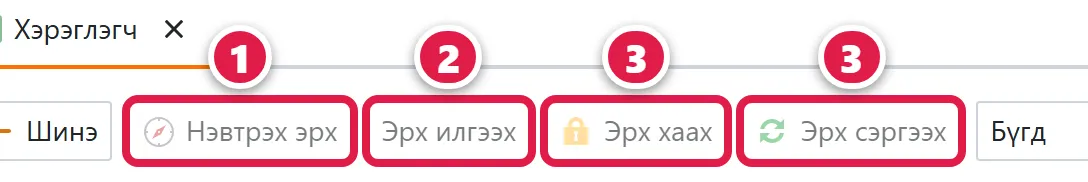
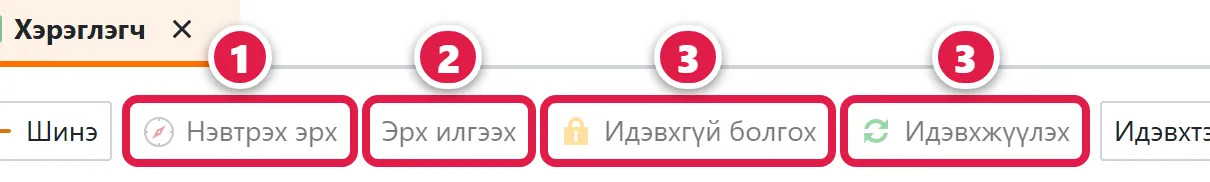
help: хэрэглэгч идэвхгүй болгох (#1219/#1220/#1226, 14829ae) — нийтлэв, list/user шинэ нэрс, зураг 2
Claude-Session: https://claude.ai/code/session_01HhipU9G1kwDtLBKWYTpQfA

diff --git a/docs/owner/list/user.md b/docs/owner/list/user.md
@@ -3,12 +3,13 @@ slug: /owner/list/User_ListView
 sidebar_label: Хэрэглэгч
 type: lavlah
 roles: [owner, menejer]
-updated: 2026-10-26
-verified_commit: c68c602
+updated: 2026-10-29
+verified_commit: 14829ae
 keywords:
   - "Хэрэглэгч"
   - "нэвтрэх эрх үүсгэх"
   - "нууц үг илгээх"
+  - "идэвхгүй болгох"
   - "эрх хаах"
   - "тамга гарын үсэг"
 ---
@@ -18,13 +19,13 @@ keywords:
 Хяналт: research/help_review_user.md (❌ 3) → засав.
 Нотолгоо (Spacehub23 origin/master c68c602):
 - User.cs:18 «Хэрэглэгч», :20 NavigationItem Spacehub (Менежмент → Харилцагч-ийн дэд)
-- Жагсаалт: xafml User_ListView AllowDelete=False; багана CustomerId, LastName, Name, PositionName, Email, Phone, CreatedBy; шүүлт Бүгд / Эрх идэвхгүй / Эрх идэвхтэй
+- Жагсаалт: xafml User_ListView AllowDelete=False; багана CustomerId, LastName, Name, PositionName, Email, Phone, CreatedBy; шүүлт (#1226, 14829ae; xafml:7488-7491) «Идэвхтэй» (анхдагч, Id Хаагдаагүй) / «Идэвхгүй» / «Бүгд» / «Нэвтрэх эрхтэй»; багана «Нэвтрэх эрх» User.cs:167-174 (Дансгүй / Идэвхтэй / Хаагдсан)
 - Өнгө: :21 эрх идэвхгүй бол саарал дэвсгэр (#EBEDEF)
 - Талбар: :49 Харилцагч, :60 Утас, :71 Имэйл, :83 Овог, :92 Нэр, :108 Хэрэглэгч эрх, :117 Албан тушаал, :137 Утас шалгасан, :147 Имэйл шалгасан, :167 Нэвтрэх эрх, :202-230 Тамга, Гарын үсэг (нэхэмжлэхэд; зөвхөн owner талын хэрэглэгчид харагдана), :284 Хандах төхөрөөмж
 - «Нэвтрэх эрх»: MainController.cs:242-243, 2102- (нэвтрэх нэр = Утас; owner бол Owner, үгүй бол Customer эрх; хадгалаагүй шинэ хэрэглэгч бол «Эрх үүсгэхээс өмнө шинэ хэрэглэгчийн мэдээллийг хадгална уу!»)
 - «Эрх илгээх»: User.cs:297-308 (1 мөр; эрхтэй + утас шалгасан үед; «Системд нэвтрэх эрх илгээх үү?»; оруулсан нууц үгийг тохируулж SMS-ээр аппын холбоос, нэвтрэх нэр, нууц үг илгээнэ)
-- «Эрх хаах»: :310-318 (идэвхтэй эрхтэй үед; «Энэ үйлдэлийг хийсний дараа хэрэглэгч системд нэвтрэх боломжгүй болно. Үргэлжлүүлэх үү?»)
-- «Эрх сэргээх»: :320-328 (идэвхгүй эрхтэй үед; «Хэрэглэгчийн нэвтрэх эрхийг буцааж сэргээх үү?»)
+- «Идэвхгүй болгох» (#1219/#1220, 14829ae): User.cs:341-345 (идэвхтэй эрхтэй үед; «Идэвхгүй болсон хэрэглэгч апп, вэбээр нэвтрэх боломжгүй болно. Үргэлжлүүлэх үү?»); хуучин «Эрх хаах»
+- «Идэвхжүүлэх»: User.cs:347-351 (идэвхгүй эрхтэй үед; «Хэрэглэгчийг дахин идэвхжүүлэх үү?»); хуучин «Эрх сэргээх». LoginGate.cs:31-32 өөр байгууллагын / өөрийгөө хориг
 -->
 
 > 🏢 Эзэмшигч, менежер · Вэб (app.spacehub.mn) · Цэс: **Менежмент → Харилцагч → Хэрэглэгч**
@@ -35,12 +36,12 @@ keywords:
 ## Хэзээ хэрэглэх
 - Шинэ ажилтан, айлд **нэвтрэх эрх** өгөх → **1** «Нэвтрэх эрх».
 - Нууц үгээ **мартсан** → **2** «Эрх илгээх».
-- Ажилтан ажлаас **гарсан** → **3** «Эрх хаах».
+- Ажилтан ажлаас **гарсан** → **3** «Идэвхгүй болгох».
 
 ## Багана, өнгө
 - **Харилцагч** · **Овог** · **Нэр** · **Албан тушаал** · **Имэйл** · **Утас** · **Бүртгэсэн**.
-- Мөр **саарал** дэвсгэртэй бол нэвтрэх эрх нь **хаагдсан**.
-- Шүүлт: **Бүгд** · **Эрх идэвхгүй** · **Эрх идэвхтэй**.
+- **Нэвтрэх эрх** багана: **Дансгүй** (эрх үүсгээгүй) · **Идэвхтэй** · **Хаагдсан**.
+- Шүүлт: **Идэвхтэй** (анхдагч) · **Идэвхгүй** · **Бүгд** · **Нэвтрэх эрхтэй**. Хаагдсан хэрэглэгч анхдагчаар харагдахгүй, **Идэвхгүй**-г сонгоно.
 - Карт дээр мөн:
   - **Утас шалгасан**, **Имэйл шалгасан**;
   - **Хэрэглэгч эрх**;
@@ -76,9 +77,10 @@ keywords:
 - ⚠ SMS нь цонхонд бичсэн **дугаар** руу явна. Дарахаасаа өмнө дугаарыг шалга.
 - **Буцаах:** ❌ илгээсэн SMS буцахгүй.
 
-### «Эрх хаах» · «Эрх сэргээх»
-- **«Эрх хаах»** — хэрэглэгч системд **нэвтрэх боломжгүй** болно. Ажлаас гарсан ажилтан, гэрээ дууссан харилцагчид хэрэглэ. Асуулт: «Энэ үйлдэлийг хийсний дараа хэрэглэгч системд нэвтрэх боломжгүй болно. Үргэлжлүүлэх үү?»
-- **«Эрх сэргээх»** — хаасан эрхийг буцааж нээнэ. Асуулт: «Хэрэглэгчийн нэвтрэх эрхийг буцааж сэргээх үү?»
+### «Идэвхгүй болгох» · «Идэвхжүүлэх»
+- **«Идэвхгүй болгох»** — хэрэглэгч апп, вэбээр **нэвтрэх боломжгүй** болно. Хэрэглэгч устахгүй, түүх хэвээр. Асуулт: «Идэвхгүй болсон хэрэглэгч апп, вэбээр нэвтрэх боломжгүй болно. Үргэлжлүүлэх үү?»
+- **«Идэвхжүүлэх»** — хаасан эрхийг буцааж нээнэ. Асуулт: «Хэрэглэгчийг дахин идэвхжүүлэх үү?»
+- Байгууллага зөвхөн өөрийн хэрэглэгчийг идэвхгүй болгоно. Өөрийгөө идэвхгүй болгох боломжгүй. → [Хэрэглэгчийг идэвхгүй болгох](/owner/hereglegch-idevhgui)
 
 ### Бусад товч
 - **Шинэ**, **Сэргээх**, **Export** (Excel рүү гаргах), багана тохируулах. **«Устгах»** байхгүй. Хэрэглэгчийг устгадаггүй, эрхийг нь **хаадаг**.
@@ -86,7 +88,7 @@ keywords:
 ## Түгээмэл асуулт
 - **Айл нууц үгээ мартсан.** Хэрэглэгчийг сонгоод «Эрх илгээх» дарж шинэ нууц үг илгээ.
 - **«Эрх илгээх» товч харагдахгүй.** Нэвтрэх эрх үүсгээгүй («Нэвтрэх эрх» дар) эсвэл утас шалгаагүй байна.
-- **Ажилтан ажлаас гарсан.** «Эрх хаах».
+- **Ажилтан ажлаас гарсан.** «Идэвхгүй болгох». → [Хэрэглэгчийг идэвхгүй болгох](/owner/hereglegch-idevhgui)
 - **Нэвтэрч чадахгүй байна.** → [Эрхгүй, нэвтэрч чадахгүй](/owner/erhgui-nevtreh)
 - **Нэхэмжлэх дээр тамга гарахгүй.** Байгууллагын **Захирал**, **Нягтлан**-аар сонгогдсон хэрэглэгчийн карт дээр **Тамга**, **Гарын үсэг** зургийг оруул.
 

diff --git a/docs/owner/hereglegch-idevhgui.md b/docs/owner/hereglegch-idevhgui.md
@@ -4,8 +4,7 @@ sidebar_label: Хэрэглэгчийг идэвхгүй болгох
 type: zaavar
 roles: [owner, menejer]
 updated: 2026-10-29
-verified_commit: d7bad52
-draft: true
+verified_commit: 14829ae
 keywords:
   - "идэвхгүй болгох"
   - "идэвхжүүлэх"
@@ -16,8 +15,8 @@ keywords:
 # Хэрэглэгчийг идэвхгүй болгох
 
 <!--
-НООРОГ (Help_Spacehub 10-29, CEO даалгавар). draft: true. Deploy-ийн дараа зураг нэмж, list/user.md-ийн «Эрх хаах / Эрх сэргээх»-ийг энэ нэрээр солино.
-Нотолгоо: Spacehub23 PR #1219 (8f8bea3), #1220 (adb167d) MERGED; origin/master d7bad52. Прод 41eca29-д ОРООГҮЙ (merge-base шалгав) — одоо прод дээр хуучин «Эрх хаах», «Эрх сэргээх».
+Help_Spacehub 10-29 (CEO даалгавар). #1219/#1220/#1226 прод 14829ae-д орсон (deploy-log.md:18-20) → зурагтай нийтлэв; list/user.md ч шинэ нэрээр.
+Нотолгоо: Spacehub23 PR #1219 (8f8bea3), #1220 (adb167d) MERGED; origin/master d7bad52. 14829ae-д User.cs:341-351, xafml:7488-7491 шалгав.
 - User.cs:341-345 «Идэвхгүй болгох»: ToolTip «Хэрэглэгч апп, вэбээр нэвтрэхгүй болно (устгахгүй, түүх хэвээр)», Confirmation «Идэвхгүй болсон хэрэглэгч апп, вэбээр нэвтрэх боломжгүй болно. Үргэлжлүүлэх үү?»; 1 мөр; эрх идэвхтэй үед л.
 - User.cs:347-351 «Идэвхжүүлэх»: ToolTip «Хэрэглэгч дахин апп, вэбээр нэвтэрч болно», Confirmation «Хэрэглэгчийг дахин идэвхжүүлэх үү?»; эрх идэвхгүй үед л.
 - User.cs:167,174 багана «Нэвтрэх эрх»: UserLoginState «Дансгүй» / «Идэвхтэй» / «Хаагдсан».
@@ -29,10 +28,6 @@ keywords:
 
 > 🏢 Байгууллага, менежер · Вэб (app.spacehub.mn) · Цэс: **Менежмент → Харилцагч → Хэрэглэгч**
 
-:::info Удахгүй гарна
-Товчны шинэ нэр удахгүй гарна. Одоогоор **«Эрх хаах»**, **«Эрх сэргээх»** гэж харагдана. Зургийг дараа нэмнэ.
-:::
-
 ## Энэ юу вэ
 Хэрэглэгчийг апп, вэбээр нэвтрэхгүй болгоно. Хэрэглэгч устахгүй, түүх нь хэвээр үлдэнэ. Дараа нь дахин идэвхжүүлж болно.
 
@@ -42,6 +37,11 @@ keywords:
 - Нэвтрэх эрхийг түр хаах шаардлагатай үед.
 
 ## Алхам
+
+![Хэрэглэгч жагсаалт: мөр сонгох, Идэвхгүй болгох, Нэвтрэх эрх багана](/img/owner/hereglegch-idevhgui-1.webp)
+
+*Зураг 1. Хэрэглэгч жагсаалт. Улаан дугаар = алхмын дугаар. Дарвал томорно.*
+
 1. Зүүн цэснээс **Менежмент → Харилцагч → Хэрэглэгч**-ийг нээнэ.
 2. Хэрэглэгчийн мөрийг сонгоно.
 3. **«Идэвхгүй болгох»** товчийг дарна.
